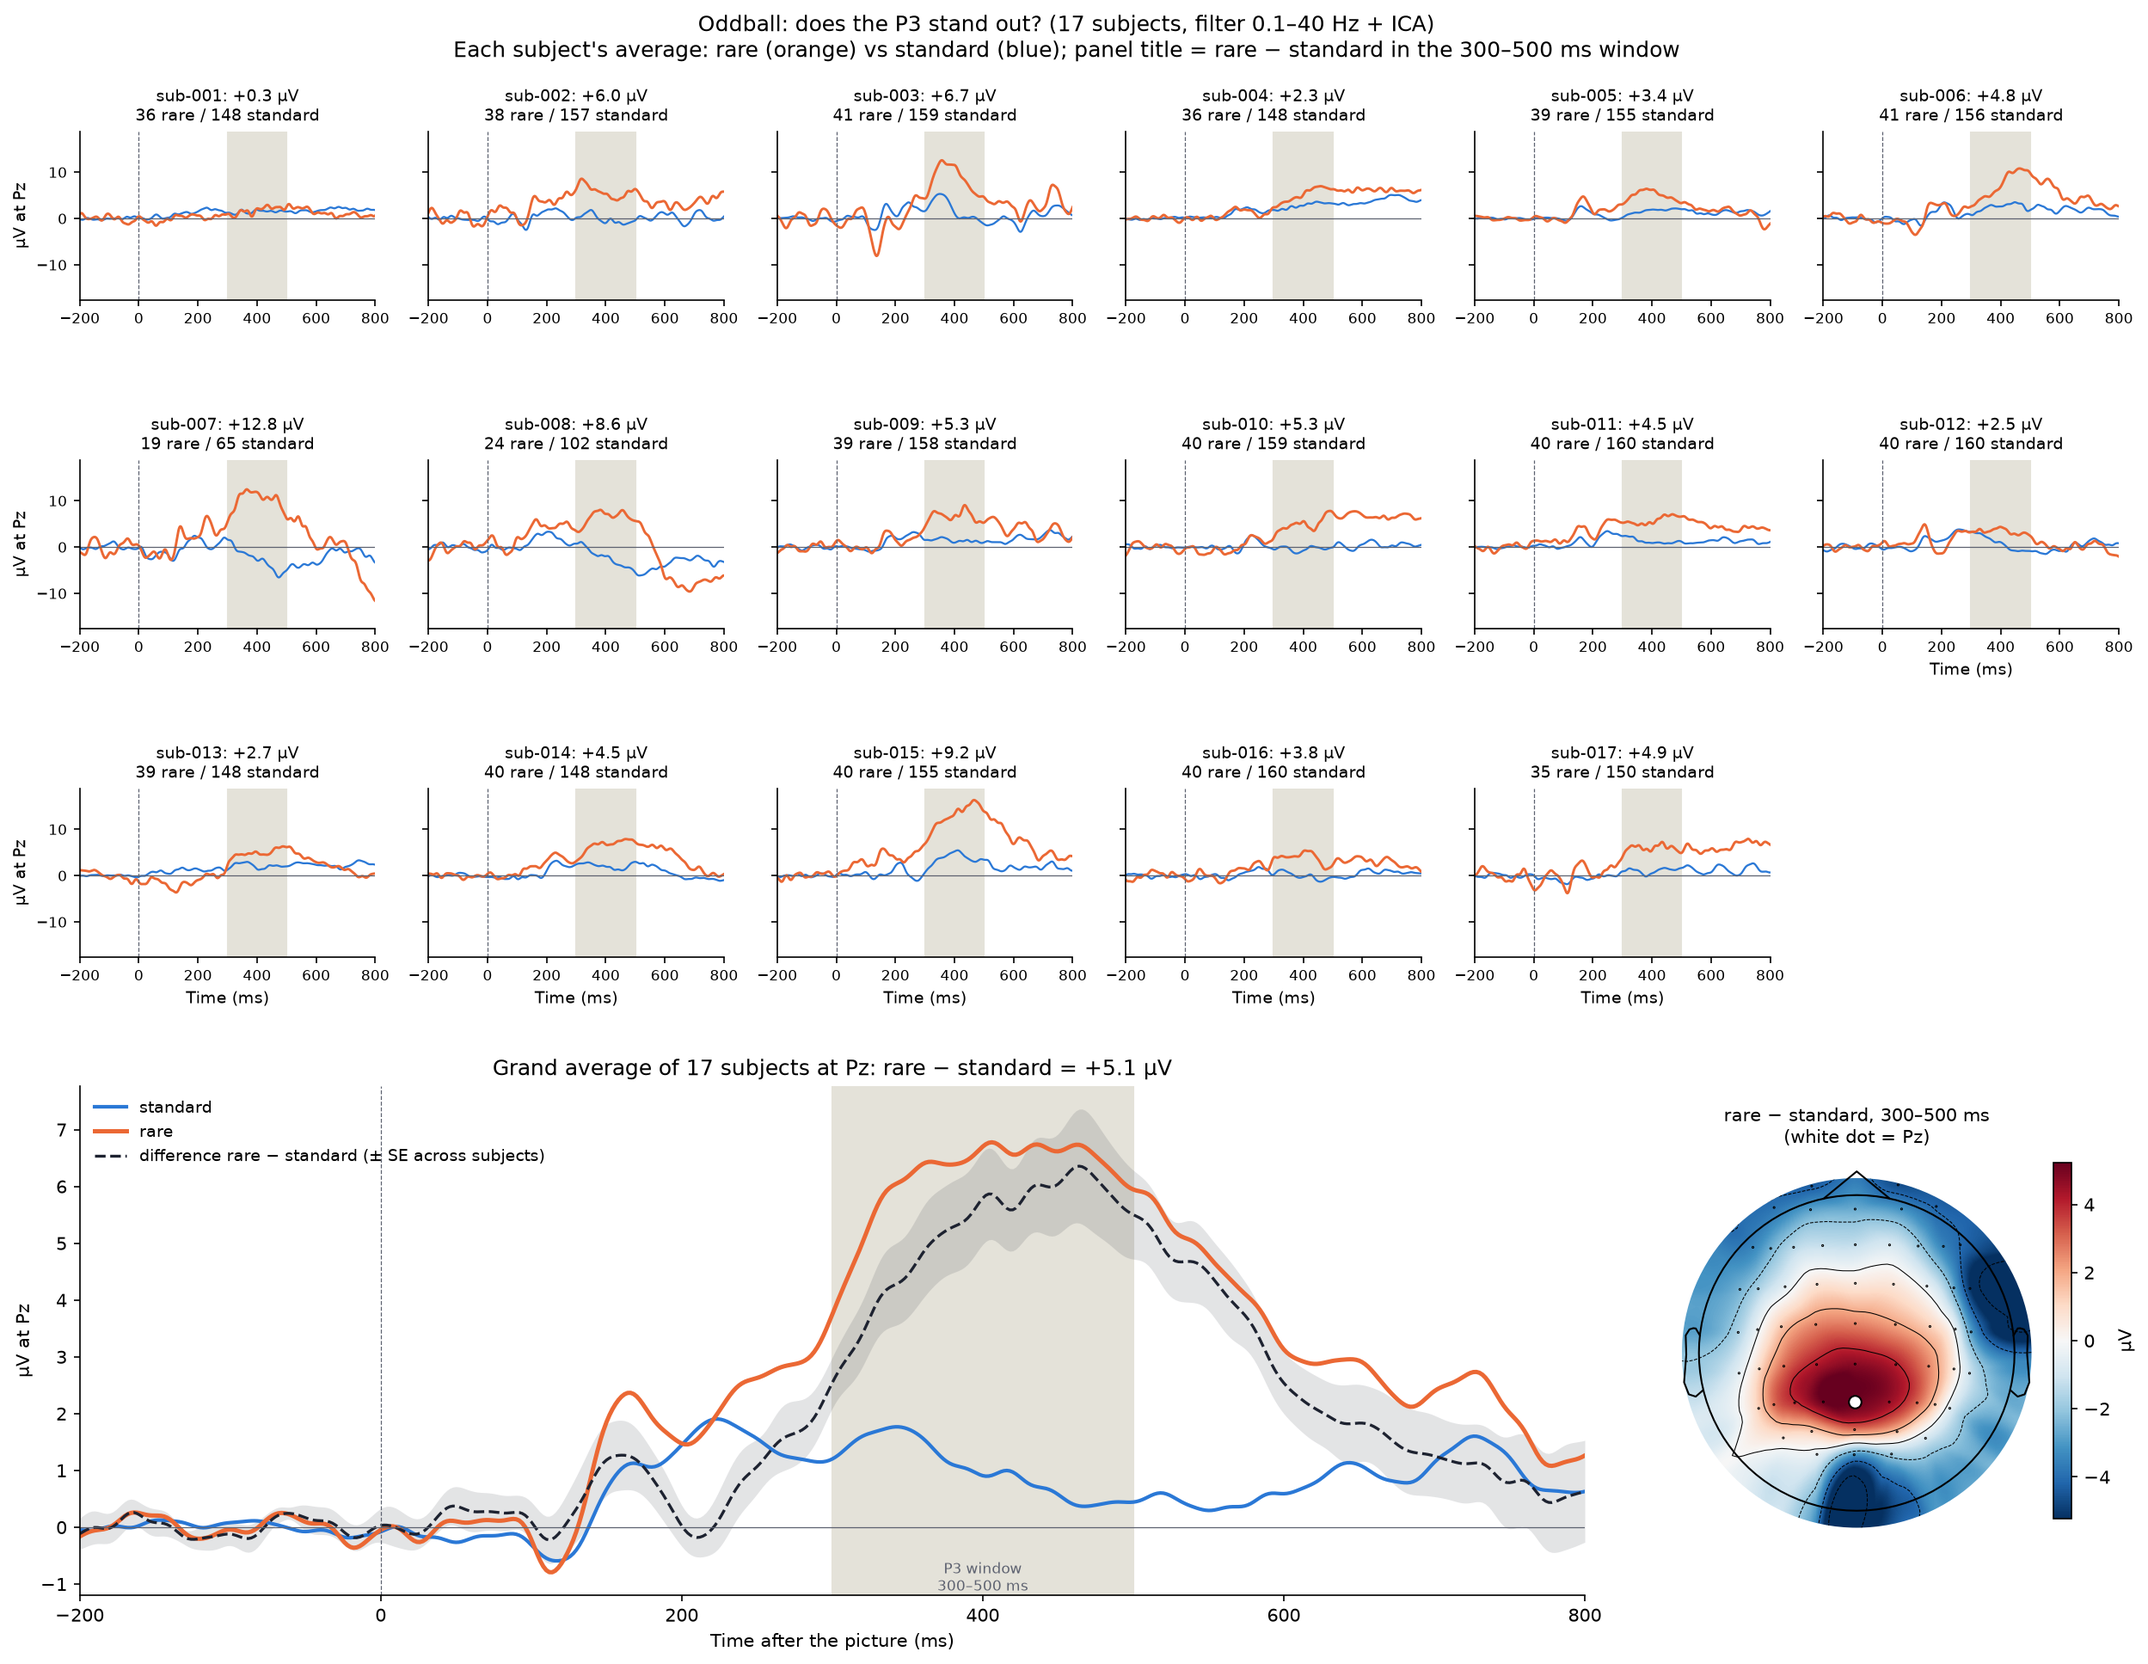
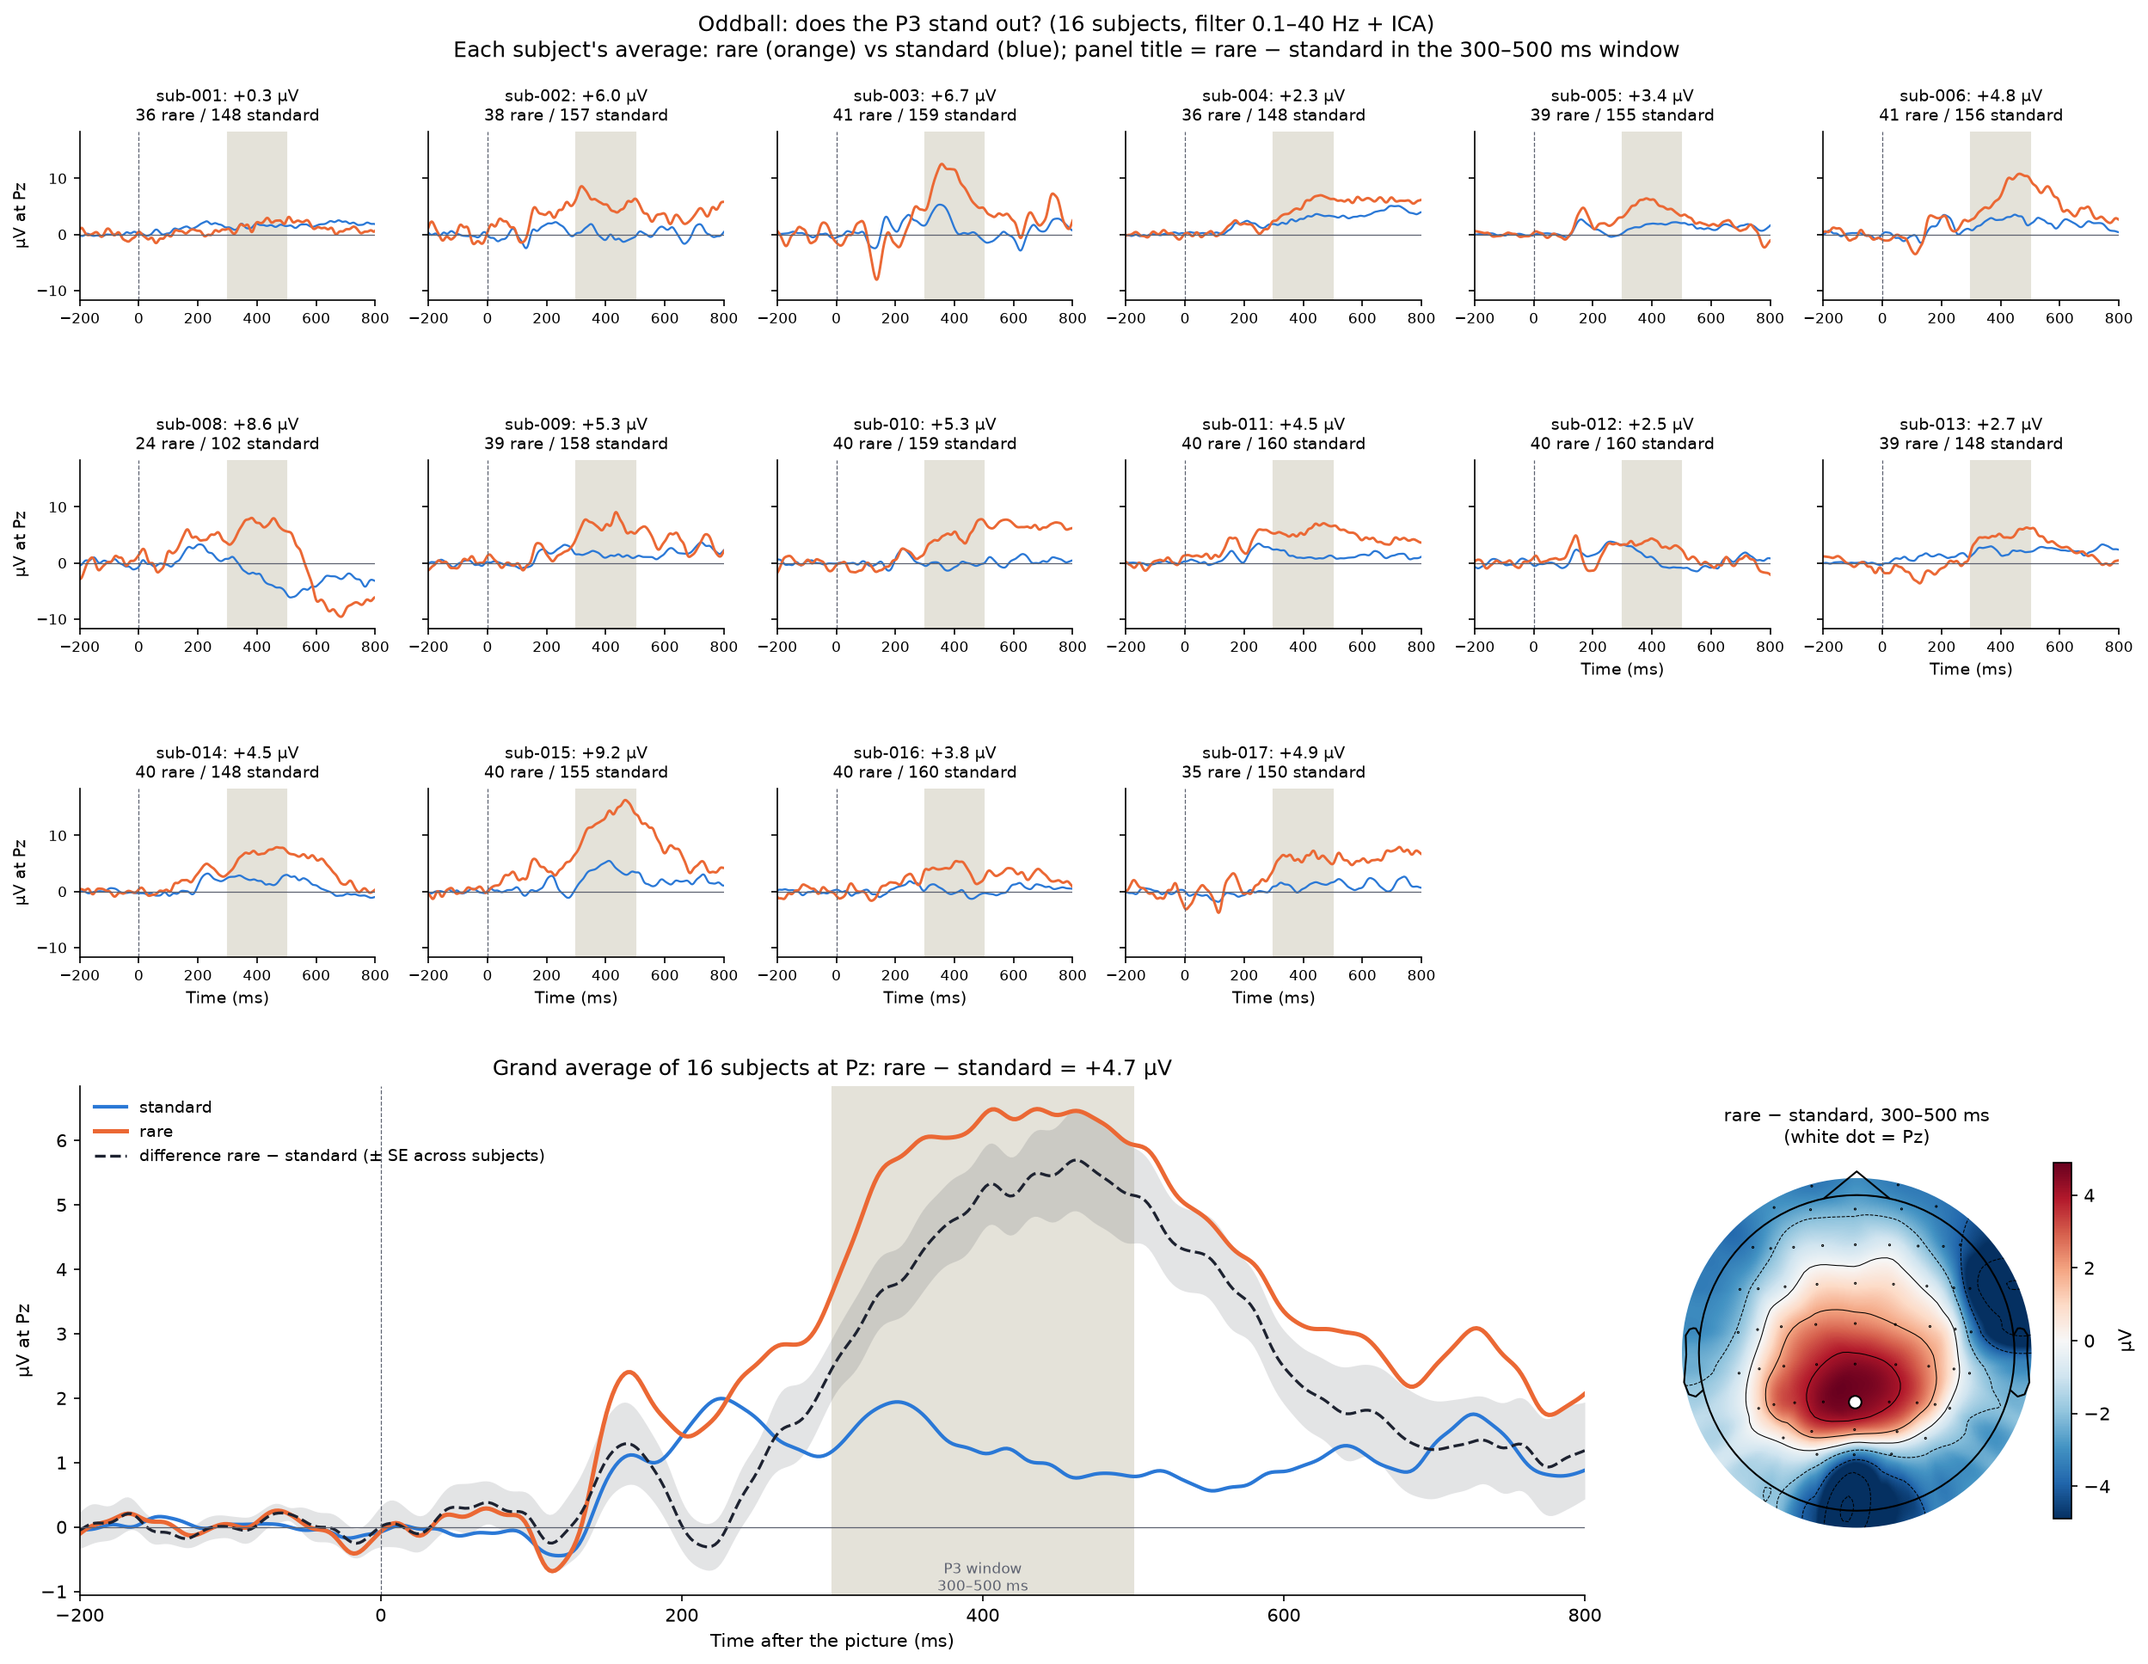
Drop sub-007 from oddball and gambling (less than 50% of trials kept)
Both scripts now apply a data-quality rule automatically: a recording is
dropped if any condition keeps less than 50% of its trials. sub-007's run-01
kept 42% of standard and 43% of rare trials; its game play recording is
clean and stays in. Oddball P3: +4.7 uV, 16/16 positive. Reward positivity:
+2.1 uV, 13/13 positive. Game play unchanged (17 subjects).

diff --git a/erp/erp_oddball_gambling.py b/erp/erp_oddball_gambling.py
@@ -5,7 +5,8 @@ Per subject:
     2. band-pass 0.1-40 Hz on the continuous recording, average reference
     3. ICA (fitted on a 1-100 Hz copy); remove components ICLabel calls
        eye or heart (> 0.8) or muscle (> 0.95)
-    4. epochs -0.5..1.0 s, baseline -200..0 ms, drop epochs > 200 µV peak-to-peak
+    4. epochs -0.5..1.0 s, baseline -200..0 ms, drop epochs > 200 µV peak-to-peak;
+       drop the subject if any condition keeps less than 50% of its trials
     5. AVERAGE the trials of each condition -> one ERP per condition per subject
 Across subjects:
     6. GRAND AVERAGE = mean of the subjects' ERPs (every subject counts equally)
@@ -34,6 +35,7 @@ EVENTS = {"S 22": 1, "S 25": 2, "S 51": 3, "S 52": 4}
 NAMES = {"standard": 1, "rare": 2, "loss": 3, "win": 4}
 VENTRAL = ["FT9", "FT10", "TP9", "TP10"]
 REJECT_PTP = 200e-6
+MIN_KEEP = 0.50      # drop a subject's recording if any condition keeps < 50% of its trials (decided on data quality)
 ICA_KW = dict(n_components=0.99, method="picard", random_state=42, max_iter=1000,
               fit_params=dict(ortho=False, extended=True))
 IC_RULE = {"eye blink": 0.80, "heart beat": 0.80, "muscle artifact": 0.95}
@@ -49,7 +51,7 @@ MUTED, BAND = "#5d6270", "#e4e2d9"
 
 def clean_raw(root, sub, run="01"):
     """Steps 1-3: load, filter 0.1-40 Hz + average reference, ICA. Returns the cleaned recording."""
-    f = glob.glob(os.path.join(root, sub, "eeg", f"{sub}_*run-{run}_eeg.set"))[0]
+    f = raw_file(root, sub, run)
     raw = mne.io.read_raw_eeglab(f, preload=True)
     raw.set_channel_types({"VEOG": "eog", "HEOG": "eog"})
     raw = mne.add_reference_channels(raw, "CPz")
@@ -79,6 +81,20 @@ def epoch(data, events, names, shift_ms=0.0):
                     preload=True, reject_by_annotation=False)
     keep = np.where(np.ptp(ep.get_data(), axis=2).max(1) <= REJECT_PTP)[0]
     return ep[keep]
+
+
+def raw_file(root, sub, run):
+    return glob.glob(os.path.join(root, sub, "eeg", f"{sub}_*run-{run}_eeg.set"))[0]
+
+
+def keep_check(root, sub, run, events, names, kept):
+    """Fraction of each condition's trials kept; returns (ok, text). kept: {condition: n kept}."""
+    desc = list(mne.read_annotations(raw_file(root, sub, run)).description)
+    total = {k: desc.count(code) for code, v in events.items() for k, vv in names.items() if vv == v}
+    frac = {k: kept.get(k, 0) / n for k, n in total.items() if n > 0}
+    low = {k: f for k, f in frac.items() if f < MIN_KEEP}
+    text = ", ".join(f"{k} {kept.get(k, 0)}/{total[k]} ({f:.0%})" for k, f in low.items())
+    return not low, text
 
 
 def preprocess(root, sub, shift_ms):
@@ -179,7 +195,12 @@ def main():
         ep, n_rm, n_ic = preprocess(args.data_root, sub, args.shift_ms)
         counts = ", ".join(f"{k} {len(ep[k])}" for k in ep.event_id)
         lines.append(f"{sub}: ICA removed {n_rm} of {n_ic} components; trials kept: {counts}")
+        ok, low = keep_check(args.data_root, sub, "01", EVENTS, NAMES, {k: len(ep[k]) for k in ep.event_id})
+        if not ok:
+            lines[-1] += f"  -> DROPPED, less than {MIN_KEEP:.0%} kept: {low}"
         print(lines[-1], flush=True)
+        if not ok:
+            continue
         for task, (_, a, b, *_rest) in TASKS.items():
             if a in ep.event_id and b in ep.event_id:
                 erps[task][sub] = {c: ep[c].average() for c in (a, b)}     # step 5

diff --git a/erp/erp_gameplay.py b/erp/erp_gameplay.py
@@ -2,7 +2,8 @@
 
 Same cleaning and averaging as erp_oddball_gambling.py:
     1-3. load, filter 0.1-40 Hz + average reference, ICA (ICLabel eye/heart/muscle removed)
-    4.   epochs -0.5..1.0 s, baseline -200..0 ms, drop epochs > 200 µV peak-to-peak
+    4.   epochs -0.5..1.0 s, baseline -200..0 ms, drop epochs > 200 µV peak-to-peak;
+         drop the subject if any game event keeps less than 50% of its epochs
     5.   average the epochs of each event type within each subject
     6.   grand average = mean of the subjects' ERPs (every subject counts equally)
 
@@ -25,7 +26,7 @@ import matplotlib.pyplot as plt
 import mne
 from scipy import stats
 
-from erp_oddball_gambling import clean_raw, epoch, REJECT_PTP, C_MAIN, MUTED, BAND
+from erp_oddball_gambling import clean_raw, epoch, keep_check, REJECT_PTP, MIN_KEEP, C_MAIN, MUTED, BAND
 
 GAME_EVENTS = {"S 90": 90, "S 91": 91, "S 92": 92, "S 93": 93, "S 94": 94, "S 97": 97}
 GAME_NAMES = {"shoot": 90, "wall": 91, "enemy": 92, "star": 93, "ammo": 94, "hit": 97}
@@ -143,6 +144,11 @@ def main():
         erps[sub], note = subject_erps(args.data_root, sub, args.cache)
         counts = ", ".join(f"{k} {erps[sub][k].nave}" for k in ORDER + ["null"] if k in erps[sub])
         lines.append(f"{sub}: {note}; epochs kept: {counts}")
+        ok, low = keep_check(args.data_root, sub, "02", GAME_EVENTS, GAME_NAMES,
+                             {k: e.nave for k, e in erps[sub].items()})
+        if not ok:
+            lines[-1] += f"  -> DROPPED, less than {MIN_KEEP:.0%} kept: {low}"
+            del erps[sub]
         print(lines[-1], flush=True)
 
     res = figure(erps, os.path.join(args.out_dir, f"3_gameplay_events_{CH}.png"))

diff --git a/README.md b/README.md
@@ -1,6 +1,8 @@
-# ERPs in the oddball, gambling and video game tasks (ds003517, all 17 subjects)
+# ERPs in the oddball, gambling and video game tasks (ds003517, 17 subjects)
 
-Data: OpenNeuro **ds003517** (Cavanagh & Castellanos, 2016, *NeuroImage*), run-01.
+Data: OpenNeuro **ds003517** (Cavanagh & Castellanos, 2016, *NeuroImage*), run-01 (oddball and
+gambling) and run-02 (game play). **sub-007 is dropped from the oddball and gambling analyses**
+because its run-01 recording kept less than half of its trials (see *When to drop a subject*).
 Questions, after cleaning with ICA:
 - Oddball and gambling (run-01): does the **P3** stand out for rare pictures, and the **reward positivity** for wins?
 - Continuous game play (run-02): which **game events** stand out from ongoing play?
@@ -9,39 +11,41 @@ Questions, after cleaning with ICA:
 
 ![Oddball](erp/figures/1_oddball_P3_Pz.png)
 
-**Oddball, P3 at Pz (17 subjects).** Rare pictures give a larger positive wave than standard
+**Oddball, P3 at Pz (16 subjects).** Rare pictures give a larger positive wave than standard
 pictures between 300 and 500 ms. The difference is strongest over the back-centre of the head,
 as expected for a P3.
 
 | | effect at Pz, 300–500 ms |
 |---|---|
-| Grand average, rare − standard | **+5.1 µV** (± 0.7 SE across subjects) |
-| Subjects with a positive effect | **17 of 17** |
-| One-sample t-test across subjects | t(16) = 7.2, p < 0.001 |
+| Grand average, rare − standard | **+4.7 µV** (± 0.6 SE across subjects) |
+| Subjects with a positive effect | **16 of 16** |
+| One-sample t-test across subjects | t(15) = 8.2, p < 0.001 |
 
 ![Gambling](erp/figures/2_gambling_RewP_FCz.png)
 
-**Gambling feedback, reward positivity at FCz (14 subjects).** Wins give a more positive wave
+**Gambling feedback, reward positivity at FCz (13 subjects).** Wins give a more positive wave
 than losses around 220–320 ms, strongest over the front-centre of the head.
 
 | | effect at FCz, 220–320 ms |
 |---|---|
-| Grand average, win − loss | **+2.1 µV** (± 0.2 SE across subjects) |
-| Subjects with a positive effect | **14 of 14** |
-| One-sample t-test across subjects | t(13) = 8.9, p < 0.001 |
+| Grand average, win − loss | **+2.1 µV** (± 0.3 SE across subjects) |
+| Subjects with a positive effect | **13 of 13** |
+| One-sample t-test across subjects | t(12) = 8.2, p < 0.001 |
 
-sub-002, sub-003 and sub-005 have no gambling trials in run-01, so the gambling figure has 14 subjects.
+sub-002, sub-003 and sub-005 have no gambling trials in run-01, and sub-007 is dropped, so the
+gambling figure has 13 subjects.
 
 ### Each subject's effect, oddball and gambling (µV)
 
 | | 001 | 002 | 003 | 004 | 005 | 006 | 007 | 008 | 009 | 010 | 011 | 012 | 013 | 014 | 015 | 016 | 017 |
 |---|---|---|---|---|---|---|---|---|---|---|---|---|---|---|---|---|---|
-| P3, rare − standard | +0.3 | +6.0 | +6.7 | +2.3 | +3.4 | +4.8 | +12.8 | +8.6 | +5.3 | +5.3 | +4.5 | +2.5 | +2.7 | +4.5 | +9.2 | +3.8 | +4.9 |
-| RewP, win − loss | +1.8 | – | – | +1.4 | – | +2.2 | +2.6 | +1.6 | +1.0 | +2.1 | +2.2 | +4.5 | +1.6 | +2.9 | +1.3 | +1.7 | +2.9 |
+| P3, rare − standard | +0.3 | +6.0 | +6.7 | +2.3 | +3.4 | +4.8 | dropped | +8.6 | +5.3 | +5.3 | +4.5 | +2.5 | +2.7 | +4.5 | +9.2 | +3.8 | +4.9 |
+| RewP, win − loss | +1.8 | – | – | +1.4 | – | +2.2 | dropped | +1.6 | +1.0 | +2.1 | +2.2 | +4.5 | +1.6 | +2.9 | +1.3 | +1.7 | +2.9 |
 
 ![Game play](erp/figures/3_gameplay_events_Cz.png)
 
-**Continuous game play, six game events at Cz (17 subjects).** These are the six events the
+**Continuous game play, six game events at Cz (17 subjects).** sub-007 stays in here: its
+game play recording is clean (at least 91% of every game event kept). These are the six events the
 authors analysed, measured at Cz as in their script. Each event is compared with **null epochs**:
 500 random moments of gameplay per subject, cleaned and averaged the same way. If an event did
 nothing, its curve would lie on the grey null line. The effect is event − null, mean of 300–500 ms
@@ -84,7 +88,7 @@ Trials kept after cleaning (oddball and gambling, run-01) and the number of ICA 
 | sub-004 | 148 | 36 | 31 | 37 | 4 of 26 |
 | sub-005 | 155 | 39 | – | – | 7 of 18 |
 | sub-006 | 156 | 41 | 120 | 120 | 11 of 31 |
-| sub-007 | 65 | 19 | 40 | 38 | 3 of 29 |
+| sub-007 | 65 | 19 | 40 | 38 | 3 of 29 (dropped) |
 | sub-008 | 102 | 24 | 28 | 31 | 1 of 31 |
 | sub-009 | 158 | 39 | 40 | 40 | 5 of 21 |
 | sub-010 | 159 | 40 | 40 | 40 | 4 of 26 |
@@ -98,33 +102,35 @@ Trials kept after cleaning (oddball and gambling, run-01) and the number of ICA 
 
 ## When to drop a subject
 
-**No subject is dropped at the moment.** The rule for dropping someone has to be decided
-**before** looking at the results, and must be about **data quality**, never about the size of
-the effect. Dropping sub-001 because its P3 is small would be cherry-picking.
+**Our rule: a recording is dropped if any condition keeps less than 50% of its trials** after the
+200 µV rejection. The scripts apply it automatically (`MIN_KEEP` in `erp_oddball_gambling.py`) and
+print `DROPPED` in the summary. The rule is about **data quality**, never about the size of the
+effect: dropping sub-001 because its P3 is small would be cherry-picking. It is applied per
+recording, so sub-007 is dropped from run-01 (oddball and gambling) but kept in run-02 (game play).
 
-Usual reasons to drop a subject:
+Usual reasons to drop a subject (only the first one is automatic here):
 1. **Too few clean trials:** for example, less than 50% of the trials of any condition kept.
 2. **A broken recording:** many bad channels, the cap moved, or the file is damaged.
 3. **The person did not do the task:** for example, they fell asleep or pressed at random.
 
 Trials kept in the oddball task (all other subjects keep at least 85% of each condition):
 
-| | standard kept | rare kept | under a "keep ≥ 50%" rule |
+| | standard kept | rare kept | result |
 |---|---|---|---|
-| sub-007 | 65 of 156 (42%) | 19 of 44 (43%) | **drop** |
+| sub-007 | 65 of 156 (42%) | 19 of 44 (43%) | **dropped** |
 | sub-008 | 102 of 160 (64%) | 24 of 40 (60%) | keep |
 | sub-001 | 148 of 159 (93%) | 36 of 41 (88%) | keep (small effect, good data) |
 
-Without sub-007 the oddball P3 grand average would be about +4.7 µV instead of +5.1 µV, and every
-remaining subject is still positive, so the conclusion does not depend on this choice.
-In the game play data every subject keeps at least 78% of the null epochs.
+With sub-007 the oddball P3 grand average was +5.1 µV (17 of 17 positive); without it, +4.7 µV
+(16 of 16 positive), so the conclusion does not depend on this choice. In the game play data every
+subject keeps at least 80% of every game event, so nobody is dropped there.
 
 ## Caveats
 
 - Times are from the trigger. The screen shows each picture **40 ms later**, so the true
   latencies are about 40 ms earlier. Add `--shift-ms 40` to correct this.
-- sub-007 and sub-008 lost many oddball trials to the 200 µV rule (65 and 102 of about 160
-  standard trials kept), so their averages are noisier.
+- sub-008 lost many oddball trials to the 200 µV rule (102 of 160 standard, 24 of 40 rare kept),
+  so its average is noisier, but it passes the 50% rule.
 - sub-001 had 13 of 35 ICA components removed, mostly labelled muscle, and has the weakest P3
   (+0.3 µV). Its components should be checked.
 - sub-006 has 120 win and 120 loss trials in run-01, about three times as many as the others.
